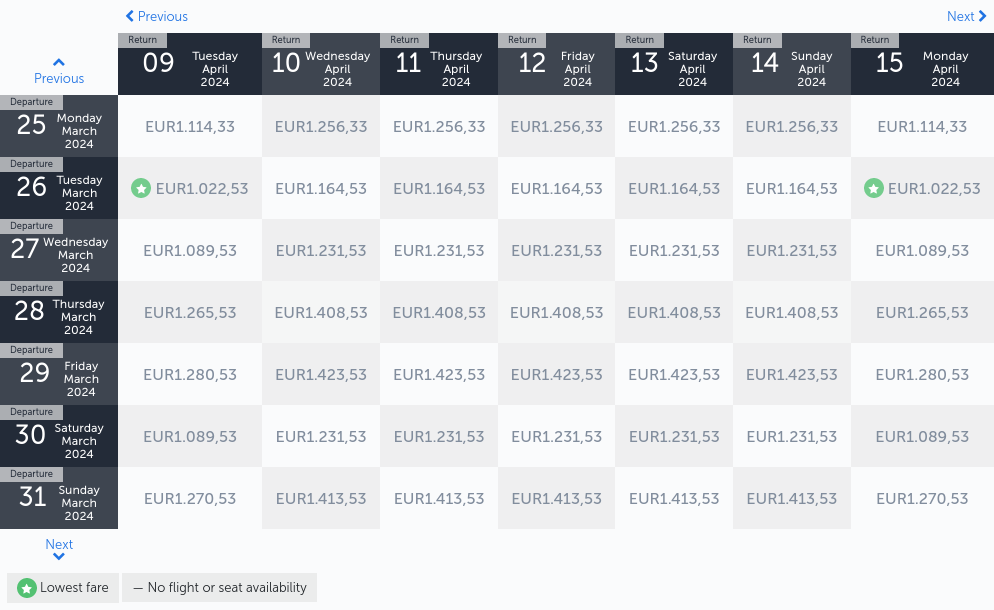
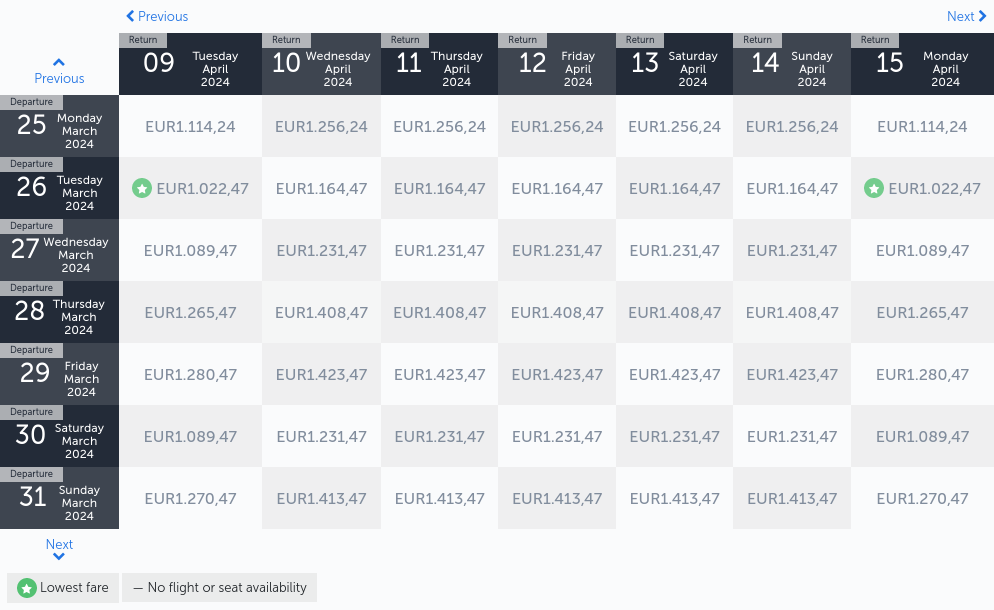
Latest scraping taiwan: Thu Jun 15 22:39:05 UTC 2023

diff --git a/scrapes/taiwan/turkish-airlines.md b/scrapes/taiwan/turkish-airlines.md
@@ -2,13 +2,13 @@
 | --- | --- | --- | --- | --- | --- | --- | --- |
 | Previous | Return<br><br>09 Tuesday April 2024 | Return<br><br>10 Wednesday April 2024 | Return<br><br>11 Thursday April 2024 | Return<br><br>12 Friday April 2024 | Return<br><br>13 Saturday April 2024 | Return<br><br>14 Sunday April 2024 | Return<br><br>15 Monday April 2024 |
 | --- | --- | --- | --- | --- | --- | --- | --- |
-| Departure<br><br>25 Monday March 2024 | 1.114,33 | 1.256,33 | 1.256,33 | 1.256,33 | 1.256,33 | 1.256,33 | 1.114,33 |
-| Departure<br><br>26 Tuesday March 2024 | 1.022,53 | 1.164,53 | 1.164,53 | 1.164,53 | 1.164,53 | 1.164,53 | 1.022,53 |
-| Departure<br><br>27 Wednesday March 2024 | 1.089,53 | 1.231,53 | 1.231,53 | 1.231,53 | 1.231,53 | 1.231,53 | 1.089,53 |
-| Departure<br><br>28 Thursday March 2024 | 1.265,53 | 1.408,53 | 1.408,53 | 1.408,53 | 1.408,53 | 1.408,53 | 1.265,53 |
-| Departure<br><br>29 Friday March 2024 | 1.280,53 | 1.423,53 | 1.423,53 | 1.423,53 | 1.423,53 | 1.423,53 | 1.280,53 |
-| Departure<br><br>30 Saturday March 2024 | 1.089,53 | 1.231,53 | 1.231,53 | 1.231,53 | 1.231,53 | 1.231,53 | 1.089,53 |
-| Departure<br><br>31 Sunday March 2024 | 1.270,53 | 1.413,53 | 1.413,53 | 1.413,53 | 1.413,53 | 1.413,53 | 1.270,53 |
+| Departure<br><br>25 Monday March 2024 | 1.114,24 | 1.256,24 | 1.256,24 | 1.256,24 | 1.256,24 | 1.256,24 | 1.114,24 |
+| Departure<br><br>26 Tuesday March 2024 | 1.022,47 | 1.164,47 | 1.164,47 | 1.164,47 | 1.164,47 | 1.164,47 | 1.022,47 |
+| Departure<br><br>27 Wednesday March 2024 | 1.089,47 | 1.231,47 | 1.231,47 | 1.231,47 | 1.231,47 | 1.231,47 | 1.089,47 |
+| Departure<br><br>28 Thursday March 2024 | 1.265,47 | 1.408,47 | 1.408,47 | 1.408,47 | 1.408,47 | 1.408,47 | 1.265,47 |
+| Departure<br><br>29 Friday March 2024 | 1.280,47 | 1.423,47 | 1.423,47 | 1.423,47 | 1.423,47 | 1.423,47 | 1.280,47 |
+| Departure<br><br>30 Saturday March 2024 | 1.089,47 | 1.231,47 | 1.231,47 | 1.231,47 | 1.231,47 | 1.231,47 | 1.089,47 |
+| Departure<br><br>31 Sunday March 2024 | 1.270,47 | 1.413,47 | 1.413,47 | 1.413,47 | 1.413,47 | 1.413,47 | 1.270,47 |
 | Next |
 | Lowest fare — No flight or seat availability |     |     |     |     |     |     |     |
 
